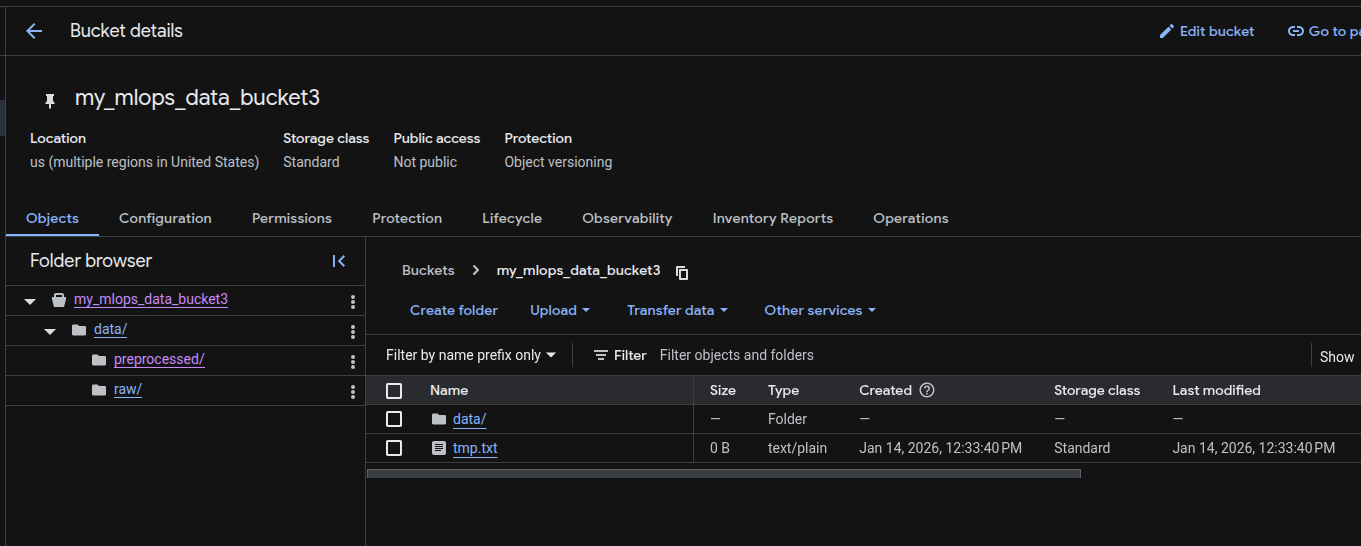
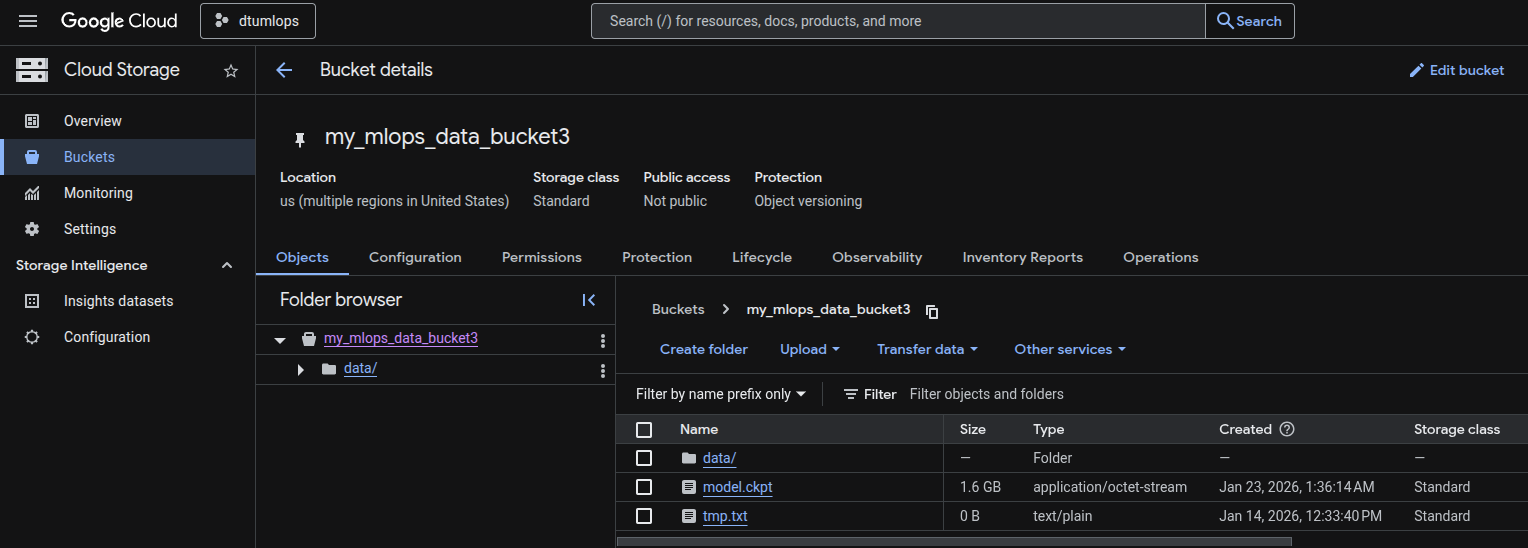
Major push

diff --git a/reports/README.md b/reports/README.md
@@ -200,6 +200,8 @@ At the end we ended up not using the default dev container, since uv handles all
 
 We added dvc configurations (via standard initialization process) and Google Cloud Platform directory to keep all it's configs there.
 
+Otherwise did our best to follow the cookiecutter template placing different project components into proper subdirectories, like `src/`, `dockerfiles/` or `configs/`...
+
 ### Question 6
 
 > **Did you implement any rules for code quality and format? What about typing and documentation? Additionally,**
@@ -262,7 +264,7 @@ In total, we have implemented 57 tests across 6 domains (api, data, evaluate, mo
 >
 > Answer:
 
-We made use of both branches and PRs in our project. In our group, each branch was dedicated to certain feature or project requirement or bug fix. To merge code a pull request must be submitted with all tests and checks passing and additionally 1 review is required from a person that was not actively involved in the development on the branch.
+We made use of both branches and pull requests in our project. In our group, each branch was dedicated to a certain feature or project requirement, or bug fix. To merge a pull request, all the scheduled checks must succeed (linting and unit testing), which ensures stable and uniform codebase on the main branch. Additionally, we require at least 1 review is from a person that was not actively involved in the development on the branch. In this way we managed to introduce a way of knowledge sharing as well as peer-review discipline by having a human in the loop on top of automated checks.
 
 ### Question 10
 
@@ -277,7 +279,9 @@ We made use of both branches and PRs in our project. In our group, each branch w
 >
 > Answer:
 
-We did make use of DVC, mostly as a convenient data storage with easy to use interface. Our data was mostly limited to a single source that we found and we did not have much use of data versioning. Our data was originally divided into 3, strictly overlapping input sets (small, medium, full), and we decided to keep all at the same time for easier handling.
+We did make use of DVC, mostly as a convenient data storage with easy to use interface. Our data was mostly limited to a single source that we found and we did not have much use of versioning. Our data was originally divided into 3, strictly overlapping input sets (small, medium, full), and we decided to keep all at the same time for easier handling.
+
+Additionally, we did not have much preprocessing iterations, which even more contributed to a relative "stability" of our data.
 
 However, we expect that it shall be beneficial to use dvc where the data is fluctuating or new sources are made available, such that a certain degree of experiment reproducibility can be maintained.
 
@@ -296,7 +300,17 @@ However, we expect that it shall be beneficial to use dvc where the data is fluc
 >
 > Answer:
 
---- question 11 fill here ---
+We have organized our continuous integration into 4 files. From which 2 are usually used during PR processing, that is linting and unit testing. In addition to that we have setup 3 triggers on Cloud Build that will build and push our docker images whenever our main branch is updated.
+
+For linting we utilize our pre-commit configuration for consistency between local and remote state. The checks include ruff check and format, mypy typing check, gitleaks for leaked secrets and standard pre-commit hooks (trailing whitespace, end of line fixer, yaml checker, large files warning, merge conflict checker).
+
+The tests are only executed after successful linting and are run in parallel for Linux, Mac/Os and Windows. In addition to just running the unit tests we also report test coverage across our sources, which is reported within PR and as a Github repository badge in our [README.md](../README.md). We are however, only testing a single Python version, since it is enforced by `uv`, our dependency manager.
+
+The source code for our testing action can be found here: <.github/workflows/tests.yaml>
+
+In addition, we also have miscellaneous actions that support our repo, that is pre-commit auto updater, which we left untouched from the cookiecutter template and PR auto-approving action, that will automatically approve PRs created by our dependency maintenance bot, such that all version bump merges are performed automatically. 
+
+We utilize cache both for Github actions and within Cloud Build setup (`--cache-from`).
 
 ## Running code and tracking experiments
 
@@ -330,7 +344,7 @@ We make heavy use of **Hydra and config files** to configure our experiments and
 >
 > Answer:
 
-As mentioned in the previous question, we made extensive use of **config files** to ensure that experiments are fully reproducible. Whenever an experiment is run, Hydra automatically creates a unique output directory containing the run's timestamp and stores the fully resolved configuration file, which includes all the hyperparameters and settings used for that experiment. All outputs from the run, including model checkpoints, logs and evaluation metrics, are also saved in this directory. We also fix the global random seed in the configuration to minimise randomness in data loading, model initialisation and training. To reproduce an experiment, simply rerun the same command: `uv run python src/customer_support/train.py experiment=experiment1`
+As mentioned in the previous question, we made extensive use of **config files** to ensure that experiments are fully reproducible. Whenever an experiment is run, Hydra automatically creates a unique output directory containing the run's timestamp and stores the fully resolved configuration file, which includes all the hyperparameters and settings used for that experiment. All outputs from the run, including model checkpoints, logs and evaluation metrics, are also saved in this directory. We also fix the global random seed in the configuration to minimize randomness in data loading, model initialization and training. To reproduce an experiment, simply rerun the same command: `uv run python src/customer_support/train.py experiment=experiment1`
 
 ### Question 14
 
@@ -364,7 +378,12 @@ The image shows us a result of (incomplete) sweep run. During sweep we followed 
 >
 > Answer:
 
---- question 15 fill here ---
+For our project we developed several images: two images for training and one for deployment. For example to run the training docker image on GPU (with CUDA 12.8) with baseline hyperparameters and data one can type: `docker run train:latest`. More advanced training setups are available by passing a hydra argument at the end (e.g. `experiment=best`). For the training docker files we additionally used an entry script that sets up training data with `dvc pull` (with no-scm flag enabled, since we do not clone the repository which is required for dvc) before executing training code.
+
+Link to docker files:
+- <dockerfiles/train_cu128.dockerfile>
+- <dockerfiles/train_cpu.dockerfile
+- <dockerfiles/api.dockerfile>
 
 ### Question 16
 
@@ -396,7 +415,23 @@ Debugging method was dependent on group member. The use of PyTorch Lightning to 
 >
 > Answer:
 
---- question 17 fill here ---
+We used the following GCP services:
+
+- Cloud Build: CI/CD service that automatically builds Docker images on pushes to main and orchestrates training job submission. It handles build pipelines defined in `cloudbuild.yaml` files.
+
+- Artifact Registry: Stores our Docker images for both training containers (train-cpu and train-cu128).
+
+- Vertex AI: Managed ML platform used for running training jobs with configurable machine types (CPU or GPU). Training is submitted via Cloud Build with configurations in `.gcp/config_xxx.yaml`.
+
+- Cloud Storage (GCS): Stores training data accessed via DVC (`gs://my_mlops_data_bucket3/`) and serves as model storage mounted to Cloud Run.
+
+- Cloud Run: Serverless container platform hosting our inference API. It mounts the model from GCS and handles automatic scaling.
+
+- Secret Manager: Securely stores sensitive credentials (`WANDB_API_KEY`) and injects them into Cloud Build and Cloud Run deployments.
+
+- IAM & Admin: Manages access control and permissions across services. We configured roles for the actions and automation we implemented.
+
+- Cloud Logging (Logs Explorer): Centralized logging service for monitoring and debugging. We used Logs Explorer to view logs from Cloud Run API requests and Vertex AI training jobs.
 
 ### Question 18
 
@@ -411,7 +446,7 @@ Debugging method was dependent on group member. The use of PyTorch Lightning to 
 >
 > Answer:
 
---- question 18 fill here ---
+The only time we used the Compute engine was during exercises. For the rest of the cases we strived to aim at the dedicated services that provide more streamlined and tailored experience, such as Vertex AI for training or Cloud Run for deployment.
 
 ### Question 19
 
@@ -429,8 +464,9 @@ Debugging method was dependent on group member. The use of PyTorch Lightning to 
 >
 > Answer:
 
-[Our registry](./figures/our_registry.png)
-TODO: Show registry after API is deployed
+![Our registry](./figures/our_registry.png)
+
+![Inside our registry](./figures/our_registry1.png)
 
 ### Question 21
 
@@ -439,7 +475,8 @@ TODO: Show registry after API is deployed
 >
 > Answer:
 
---- question 21 fill here ---
+![Our build history](./figures/our_cloudbuild.png)
+
 
 ### Question 22
 
@@ -471,7 +508,7 @@ We managed to train our model in the cloud using Vertex AI. We did this by turni
 >
 > Answer:
 
---- question 23 fill here ---
+We did manage to write an API for our model. We used FastAPI to do this. We did this by developing status checking and inference endpoints. We did not add much more functionality above the bare minimum (the main functionality is exclusively implemented under `predict` endpoint) since we simply ran out of time. However, with the setup prepared and the API structure ready we expect it to be fairly simple to extend the API with additional capabilities, like batch prediction on files input, or creating GUI for better user interaction, or present model evaluation metrics as figures graphs ans plots.
 
 ### Question 24
 
@@ -487,7 +524,14 @@ We managed to train our model in the cloud using Vertex AI. We did this by turni
 >
 > Answer:
 
---- question 24 fill here ---
+For deployment we wrapped our model into application using FastAPI. We first tried locally serving the model, which worked. Afterwards we deployed it in the cloud, using GCP Cloud Run triggered by pushes to main branch on our Github repository. A build config can be found [here (couldbuild_api.yaml)](.gcp/cloudbuild_api.yaml). This cloud build first builds docker container image, then pushes it to our registry, next there are 2 steps that handle pulling and saving our model from our Weights & Biases registry to our bucket which is later mounted to the container image that hosts our service via Cloud Run.
+To invoke the service a user would call:
+
+```
+curl -X POST https://g41-service-324300157876.europe-west1.run.app//predict \
+  -H "Content-Type: application/json" \
+  -d '{"text": "My computer crashed and I lost important data"}'
+```
 
 ### Question 25
 
@@ -517,7 +561,9 @@ We managed to train our model in the cloud using Vertex AI. We did this by turni
 >
 > Answer:
 
---- question 26 fill here ---
+We did not manage to implement monitoring. We would like to have monitoring implemented such that over time we could detect data drift - when the distribution of input data changes from what our model was trained on, leading to performance degradation. Using a framework like Evidently, we could periodically compare incoming requests against our training data distribution and generate reports on feature drift and target drift.
+
+Additionally we could implement metrics monitoring (using e.g. Prometheus metrics) of such aspects as request counts, prediction latency, error rates, and the distribution of predicted classes. This would give us a perpetual insight to our application performance making the development and maintenance decision easier and possibly more accurate. 
 
 ## Overall discussion of project
 
